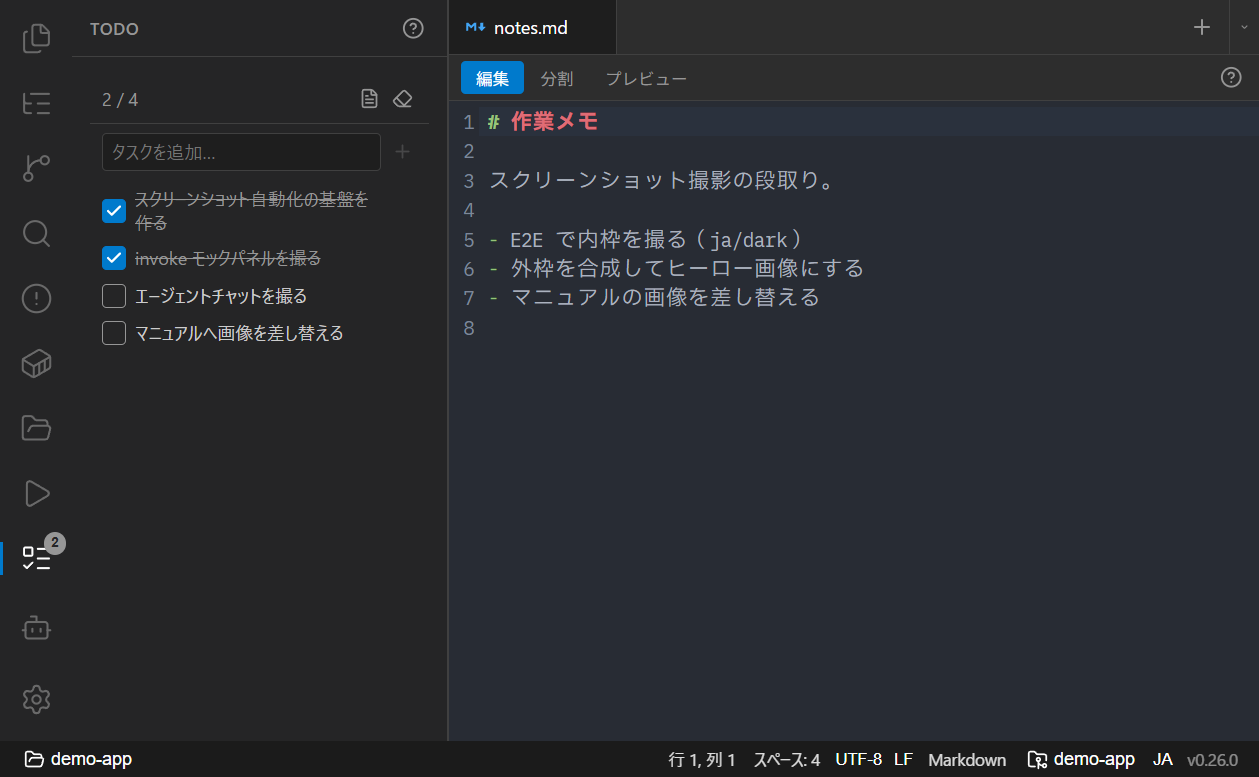
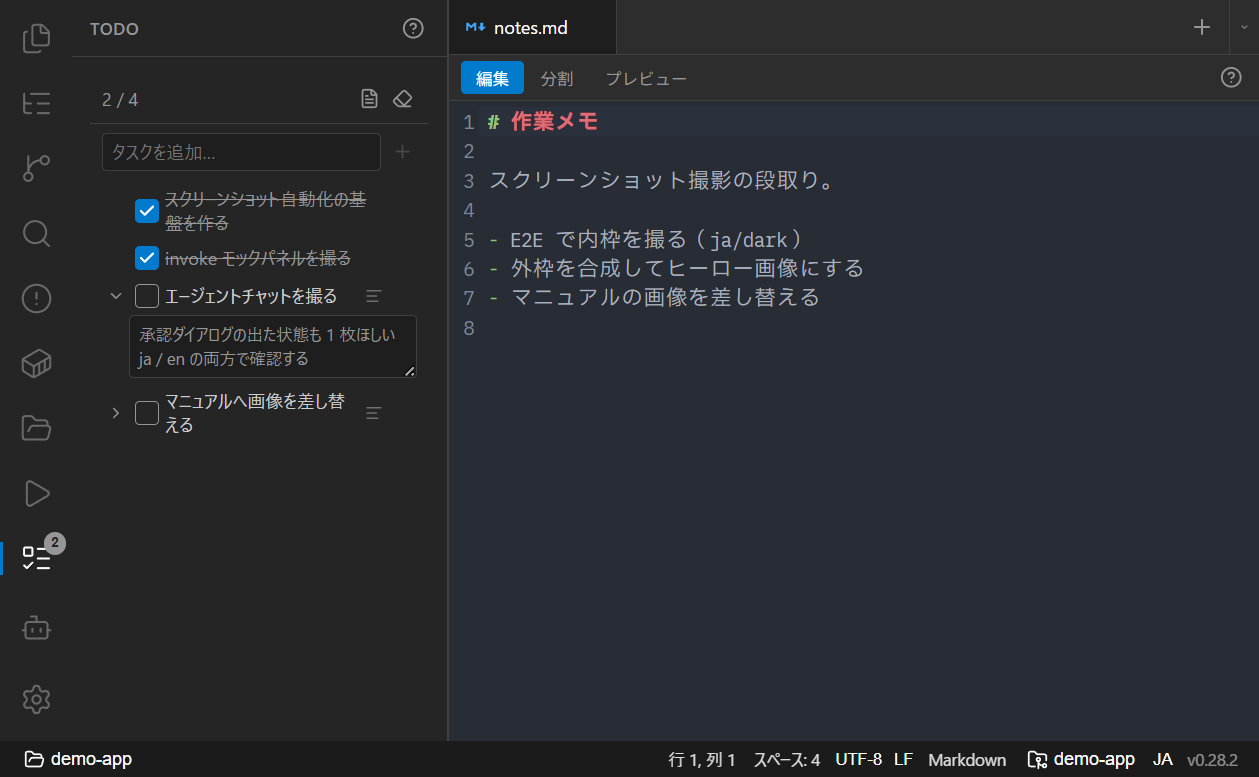
fix(todo): 詳細欄が textarea の既定幅に潰れるのを直す
`.todo-detail` の `width` / `box-sizing` を削ったが、textarea は cols 由来の
固有幅を持つため `display: block` だけでは親幅に伸びず、20 文字幅の細い箱に
なっていた。理由をコメントに残して復元する。E2E の再撮影で発覚。

あわせて撮影用フィクスチャに詳細本文を持たせ、撮影前に 1 件展開する。折り畳んだ
行の右端マーカーと開いた詳細欄が 1 枚に収まる。マニュアルの TODO パネル画像
(dark / light) を再撮影分に差し替えた。

Claude-Session: https://claude.ai/code/session_01C1dStZFEKBTayKmwKHZnkm

Changed region(s): [[0.062, 0.2471, 0.3098, 0.556], [0.9603, 0.9575, 0.9913, 0.9884], [0.3098, 0.4633, 0.3407, 0.4942]]

diff --git a/e2e/specs/navigation.ts b/e2e/specs/navigation.ts
@@ -114,13 +114,18 @@ describe('screenshots: quick open', () => {
 // --- TODO パネル -----------------------------------------------------------
 // TODO store は project 変更時（immediate watch）に .pike/todo.md を fsReadFile で読む。
 // fs_read_file をモックして決定的な内容を与える。
+// タイトルの下のインデント継続行が詳細本文。折り畳んだ行の右端マーカーと、
+// 展開した詳細欄の両方が 1 枚に写るようにしてある。
 const TODO_MD = [
   '# デモの TODO',
   '',
   '- [x] スクリーンショット自動化の基盤を作る',
   '- [x] invoke モックパネルを撮る',
   '- [ ] エージェントチャットを撮る',
+  '  承認ダイアログの出た状態も 1 枚ほしい',
+  '  ja / en の両方で確認する',
   '- [ ] マニュアルへ画像を差し替える',
+  '  sync-manual-images.sh --check で差分を見てから',
   '',
 ].join('\n')
 
@@ -136,6 +141,9 @@ describe('screenshots: todo panel', () => {
       await openPanel('todo')
       await $('[data-testid="todo-panel"]').waitForDisplayed({ timeout: 10_000 })
       await $('.todo-item').waitForDisplayed({ timeout: 10_000 })
+      // 3 番目のタスクを開いて詳細欄を見せる（4 番目は畳んだままマーカーを見せる）。
+      await $('.todo-list > li:nth-child(3) .caret').click()
+      await $('.todo-detail').waitForDisplayed({ timeout: 10_000 })
       await shoot('todo-panel', lang, theme)
     })
   }

diff --git a/src/components/panels/TodoPanel.vue b/src/components/panels/TodoPanel.vue
@@ -291,6 +291,10 @@ async function clearAll() {
 /* Box styling comes from .todo-input; only the deltas live here. */
 .todo-detail {
   display: block;
+  /* textarea は cols 由来の固有幅を持つので、明示しないと親幅に伸びない
+     （26px の左インデント + 右 8px を差し引く）。 */
+  width: calc(100% - 34px);
+  box-sizing: border-box;
   margin: 0 8px 4px 26px;
   color: var(--text-secondary);
   font-size: 11px;